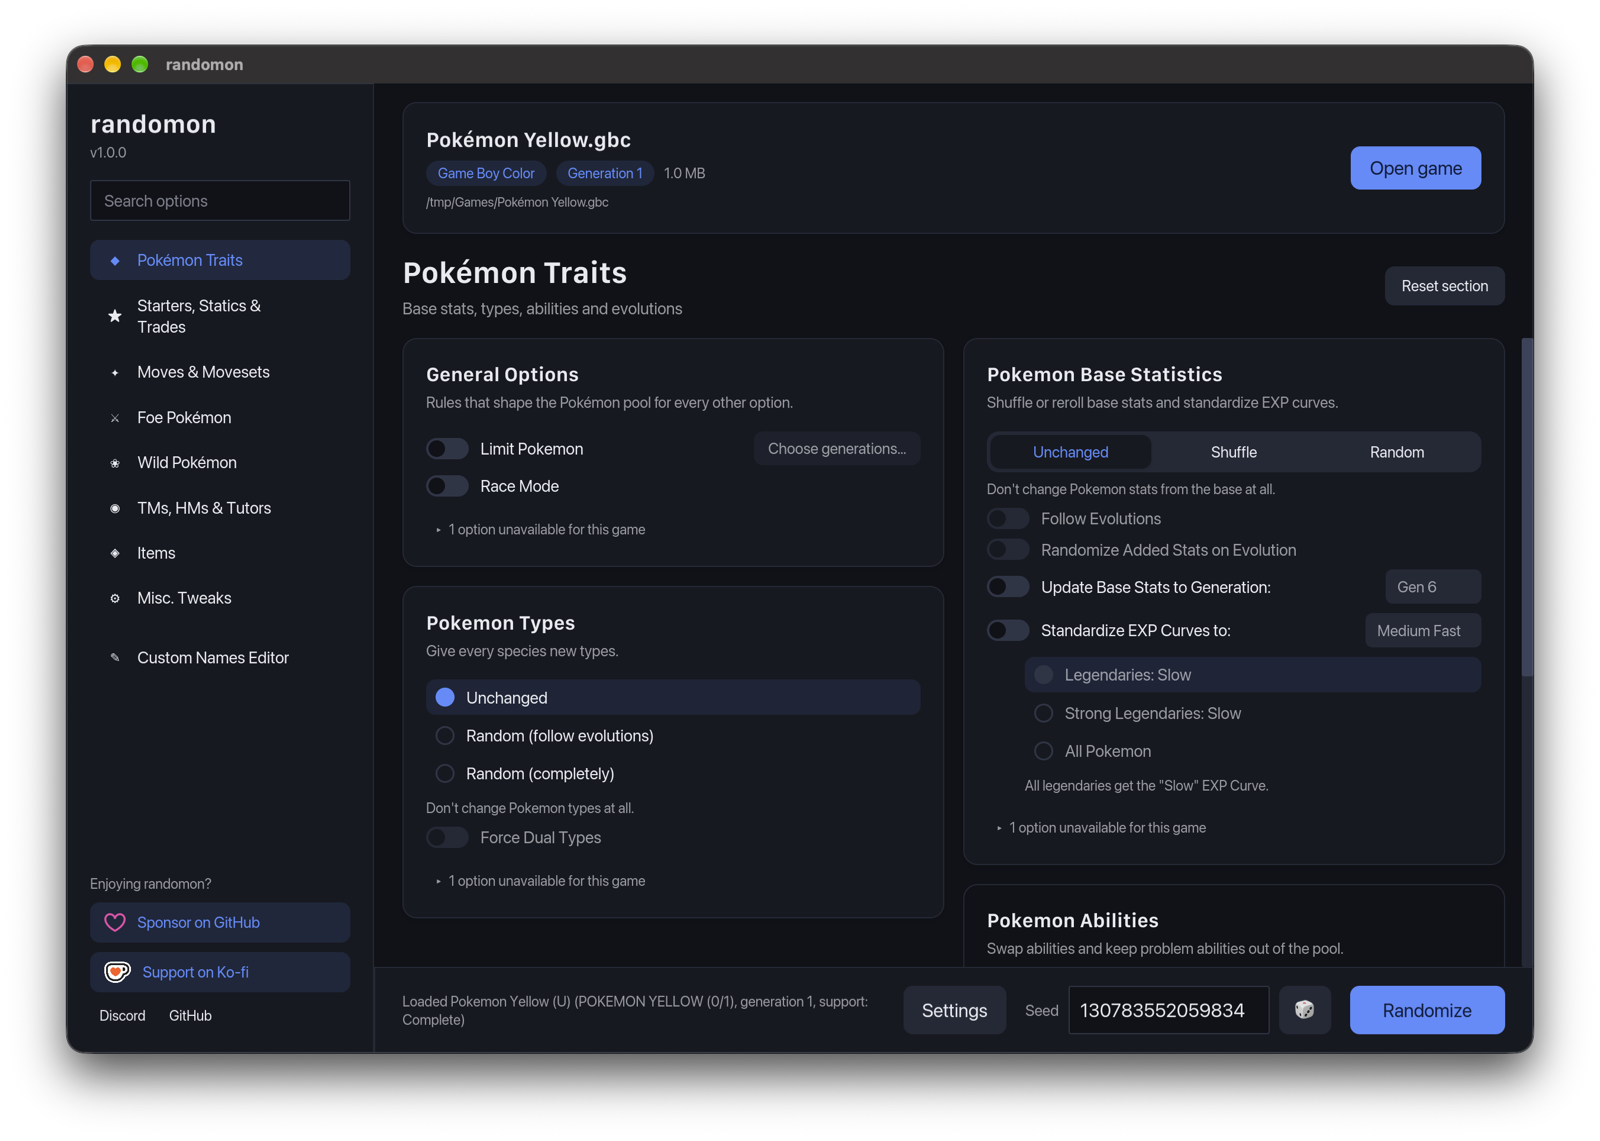
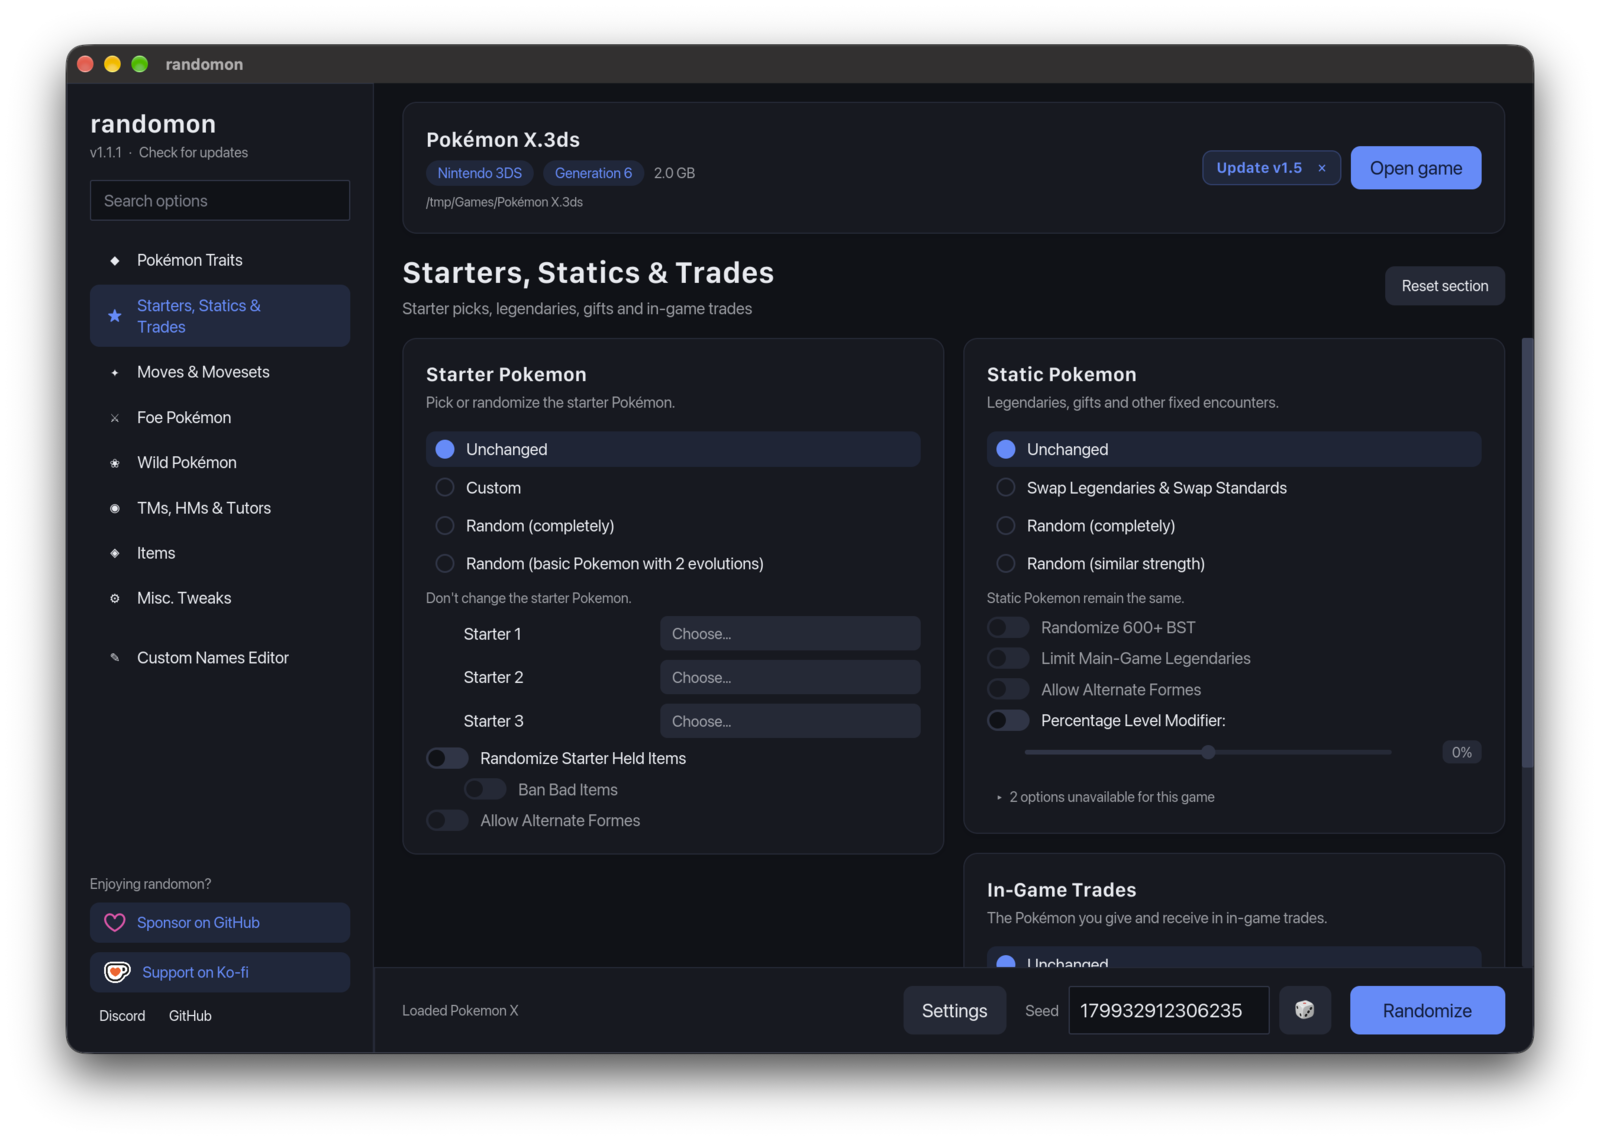
fix(app): show the first progress detail of every stage, report LayeredFS writes, tidy the loaded status and refresh the screenshot

diff --git a/crates/randomon_core/src/progress.rs b/crates/randomon_core/src/progress.rs
@@ -103,6 +103,7 @@ struct Position {
     fraction: f32,
     label: &'static str,
     last_emitted: Option<Instant>,
+    stage_has_detail: bool,
 }
 
 #[derive(Debug)]
@@ -122,6 +123,7 @@ impl ProgressPlan {
                 fraction: 0.0,
                 label: "",
                 last_emitted: None,
+                stage_has_detail: false,
             }),
         }
     }
@@ -143,6 +145,9 @@ impl ProgressPlan {
             return;
         };
         position.last_emitted = Some(Instant::now());
+        if detail.is_some() {
+            position.stage_has_detail = true;
+        }
         reporter.report(Progress {
             completed_steps: position.step,
             total_steps: self.total_steps(),
@@ -153,9 +158,10 @@ impl ProgressPlan {
     }
 
     fn is_due(position: &Position) -> bool {
-        position
-            .last_emitted
-            .is_none_or(|emitted| emitted.elapsed() >= DETAIL_INTERVAL)
+        !position.stage_has_detail
+            || position
+                .last_emitted
+                .is_none_or(|emitted| emitted.elapsed() >= DETAIL_INTERVAL)
     }
 
     pub fn begin(&self, stage: Stage) {
@@ -171,6 +177,7 @@ impl ProgressPlan {
         position.step = step;
         position.fraction = 0.0;
         position.label = stage.label();
+        position.stage_has_detail = false;
         self.emit(&mut position, None);
     }
 
@@ -288,7 +295,8 @@ mod tests {
         std::thread::sleep(DETAIL_INTERVAL);
         plan.detail(500, 1000, || "Trainer 501 of 1000".to_owned());
         let seen = seen.lock().expect("progress lock");
-        assert_eq!(seen.len(), 2);
+        assert_eq!(seen.len(), 3);
+        assert_eq!(seen[1].detail.as_deref(), Some("Trainer 1 of 1000"));
         let last = seen.last().expect("detail");
         assert_eq!(last.detail.as_deref(), Some("Trainer 501 of 1000"));
         assert!((last.fraction() - 0.25).abs() < f32::EPSILON);

diff --git a/apps/randomon/src/app.rs b/apps/randomon/src/app.rs
@@ -182,6 +182,12 @@ impl Randomon {
         if let Some(query) = boot.search {
             self.search = query;
         }
+        if let Some(update) = boot.update
+            && let Some(game) = self.rom.as_ref().and_then(|loaded| loaded.engine.as_ref())
+            && let Ok(version) = engine::game_update_version_blocking(game, &update)
+        {
+            self.game_update = Some(GameUpdate::verified(update, version));
+        }
         if let Some(version) = boot.update_version {
             self.game_update = Some(GameUpdate::verified(
                 PathBuf::from("update.cia"),
@@ -584,10 +590,7 @@ impl Randomon {
             (None, None) => Capabilities::provisional(loaded.platform),
         };
         self.status = Some(match &loaded.engine {
-            Some(game) => Status::Info(format!(
-                "Loaded {} ({}, generation {}, support: {})",
-                game.rom_name, game.rom_code, game.generation, game.support_level
-            )),
+            Some(game) => Status::Info(format!("Loaded {}", game.rom_name)),
             None => Status::Info(format!(
                 "Loaded {}. Randomizing this generation isn't ported yet, so its options are a preview.",
                 loaded.file_name

diff --git a/apps/randomon/src/engine.rs b/apps/randomon/src/engine.rs
@@ -31,9 +31,7 @@ pub struct EngineGame {
     pub source: RomSource,
     pub path: PathBuf,
     pub rom_name: String,
-    pub rom_code: String,
     pub generation: i32,
-    pub support_level: String,
     pub default_extension: String,
     pub capabilities: Capabilities,
 }
@@ -105,9 +103,7 @@ fn inspect_in_memory(path: &Path, size_bytes: u64) -> Option<EngineGame> {
 fn engine_game(handler: &dyn RomHandler, source: RomSource, path: &Path) -> EngineGame {
     EngineGame {
         rom_name: handler.rom_name(),
-        rom_code: handler.rom_code(),
         generation: handler.generation_of_pokemon(),
-        support_level: handler.support_level(),
         default_extension: handler.default_extension(),
         capabilities: capabilities_of(handler),
         source,
@@ -231,7 +227,7 @@ pub async fn game_update_version(
         .map_err(|error| error.to_string())?
 }
 
-fn game_update_version_blocking(
+pub(crate) fn game_update_version_blocking(
     game: &EngineGame,
     update: &Path,
 ) -> Result<Option<String>, String> {

diff --git a/apps/randomon/src/debug.rs b/apps/randomon/src/debug.rs
@@ -14,6 +14,7 @@ pub struct DebugBoot {
     pub search: Option<String>,
     pub dialog: Option<String>,
     pub update_version: Option<String>,
+    pub update: Option<PathBuf>,
     pub app_update: Option<String>,
     pub app_update_stage: Option<String>,
     pub output: Option<PathBuf>,
@@ -28,6 +29,7 @@ impl DebugBoot {
             search: variable("RANDOMON_DEBUG_SEARCH"),
             dialog: variable("RANDOMON_DEBUG_DIALOG"),
             update_version: variable("RANDOMON_DEBUG_UPDATE_VERSION"),
+            update: variable("RANDOMON_DEBUG_UPDATE").map(PathBuf::from),
             app_update: variable("RANDOMON_DEBUG_APP_UPDATE"),
             app_update_stage: variable("RANDOMON_DEBUG_APP_UPDATE_STAGE"),
             output: variable("RANDOMON_DEBUG_OUTPUT").map(PathBuf::from),

diff --git a/README.md b/README.md
@@ -5,7 +5,7 @@
 
 A fast, native Pokémon randomizer for macOS, Windows and Linux
 
-<p align="center"><img src="assets/screenshots/app.png" alt="randomon with Pokémon Yellow loaded, showing the Pokémon Traits options" width="100%"></p>
+<p align="center"><img src="assets/screenshots/app.png" alt="randomon with Pokémon X and its v1.5 update loaded, showing the starter, static and trade options" width="100%"></p>
 
 ## Download
 
